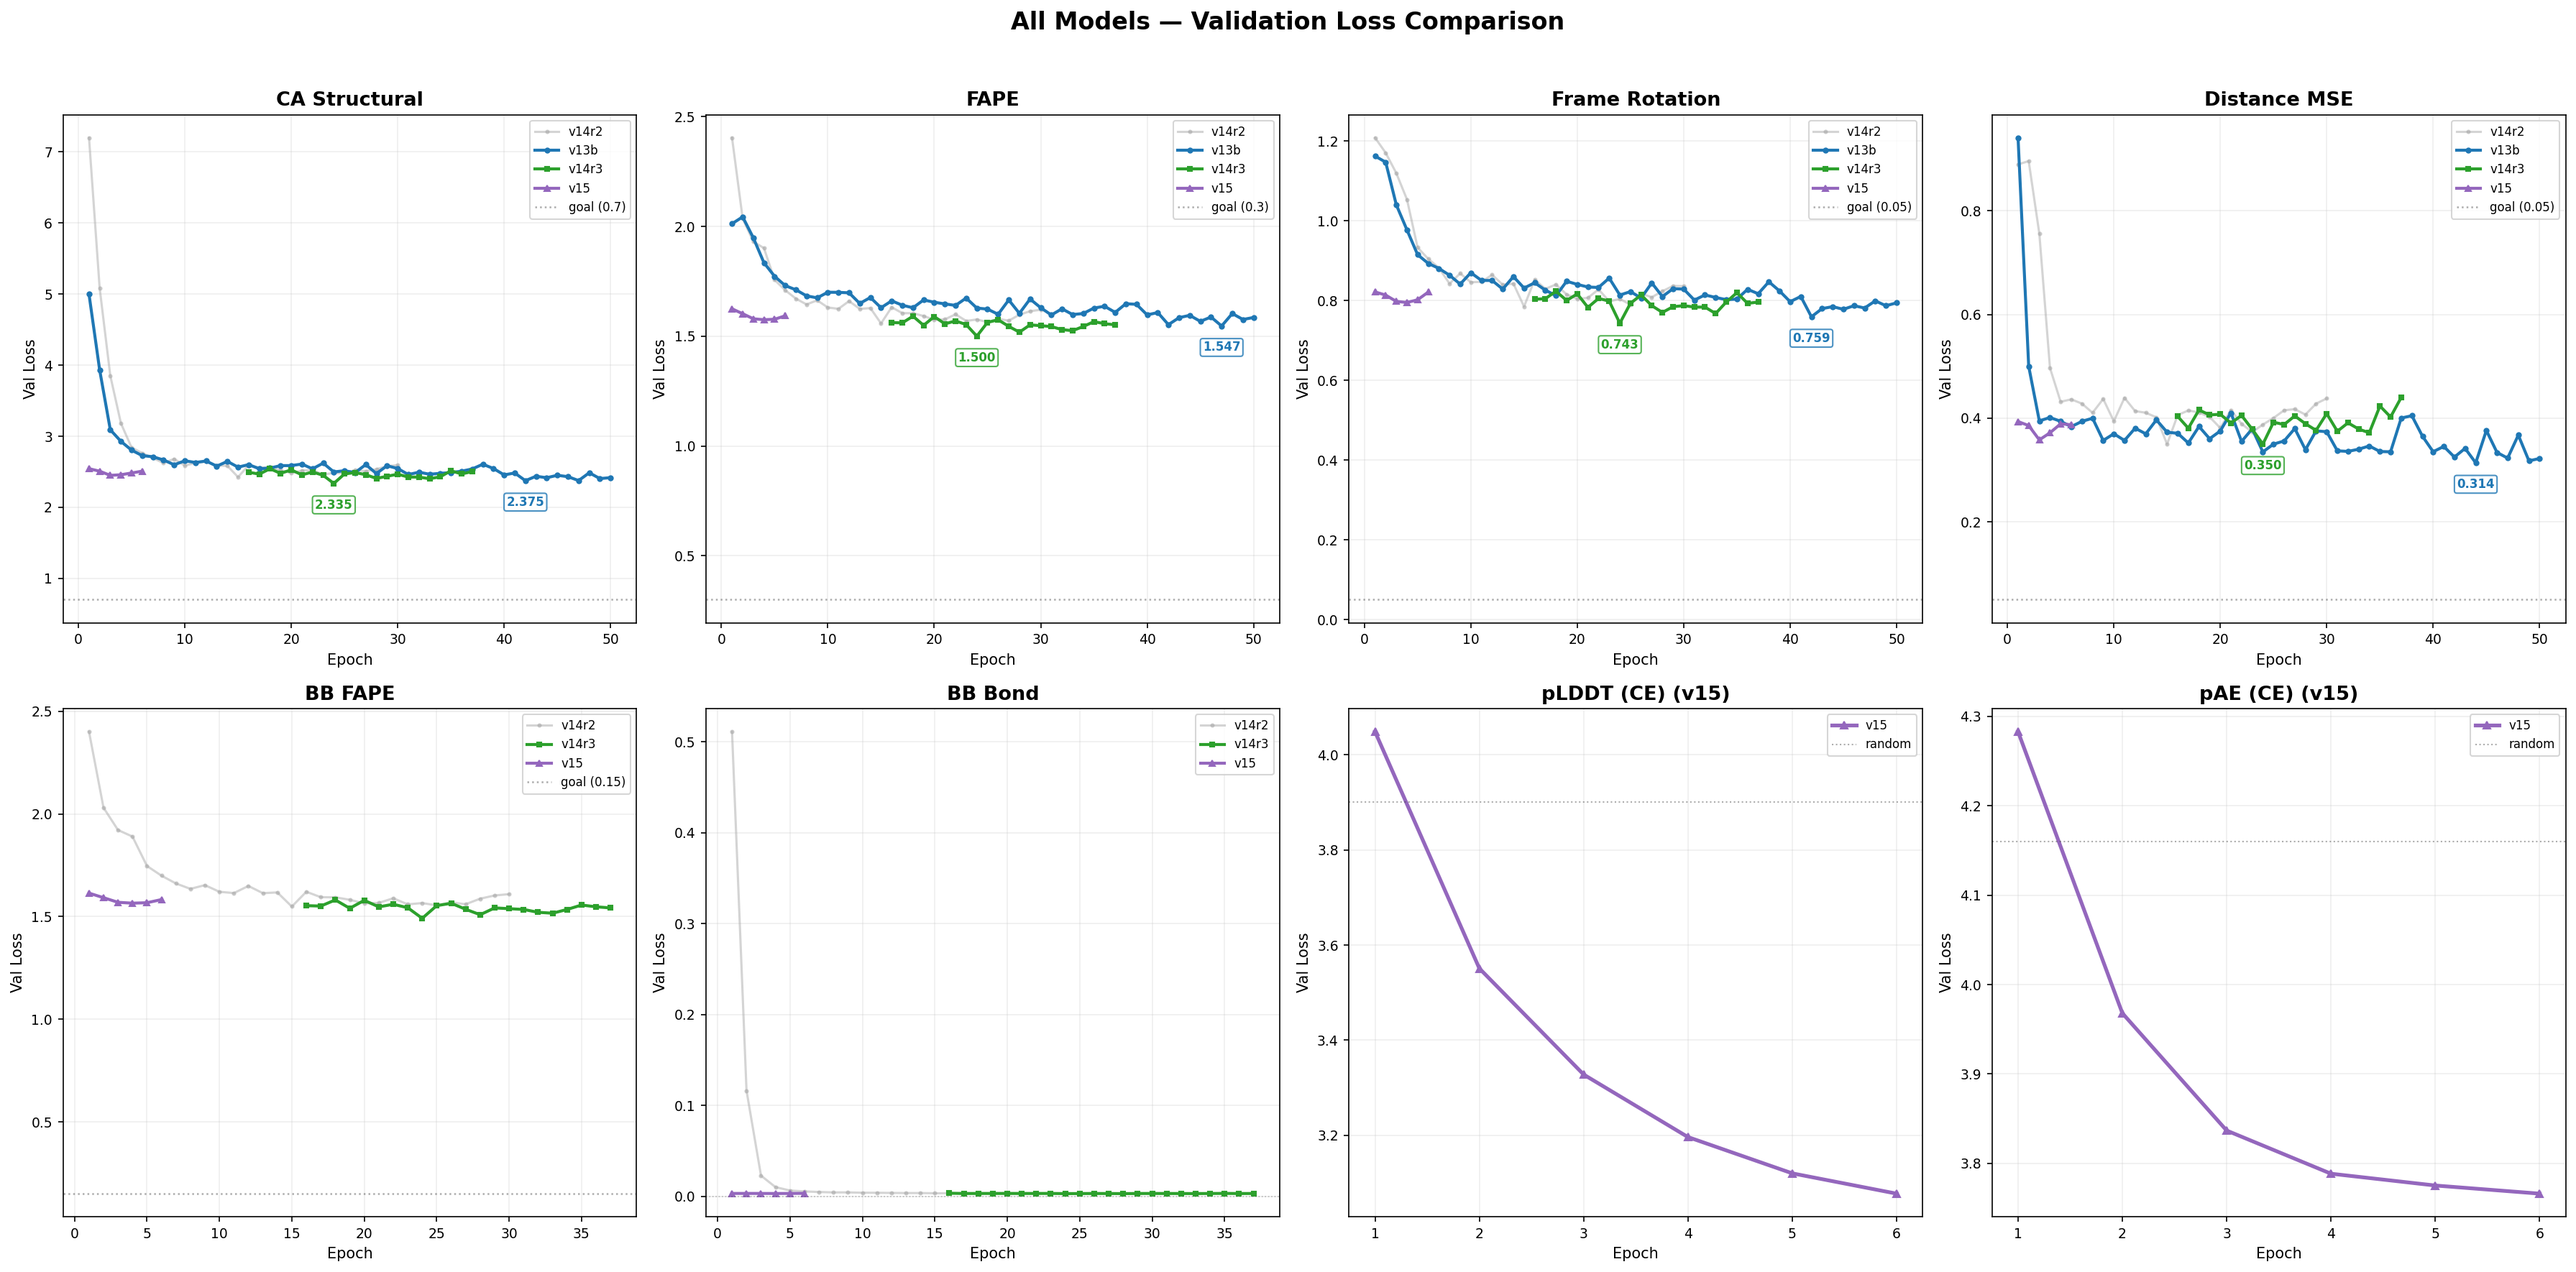
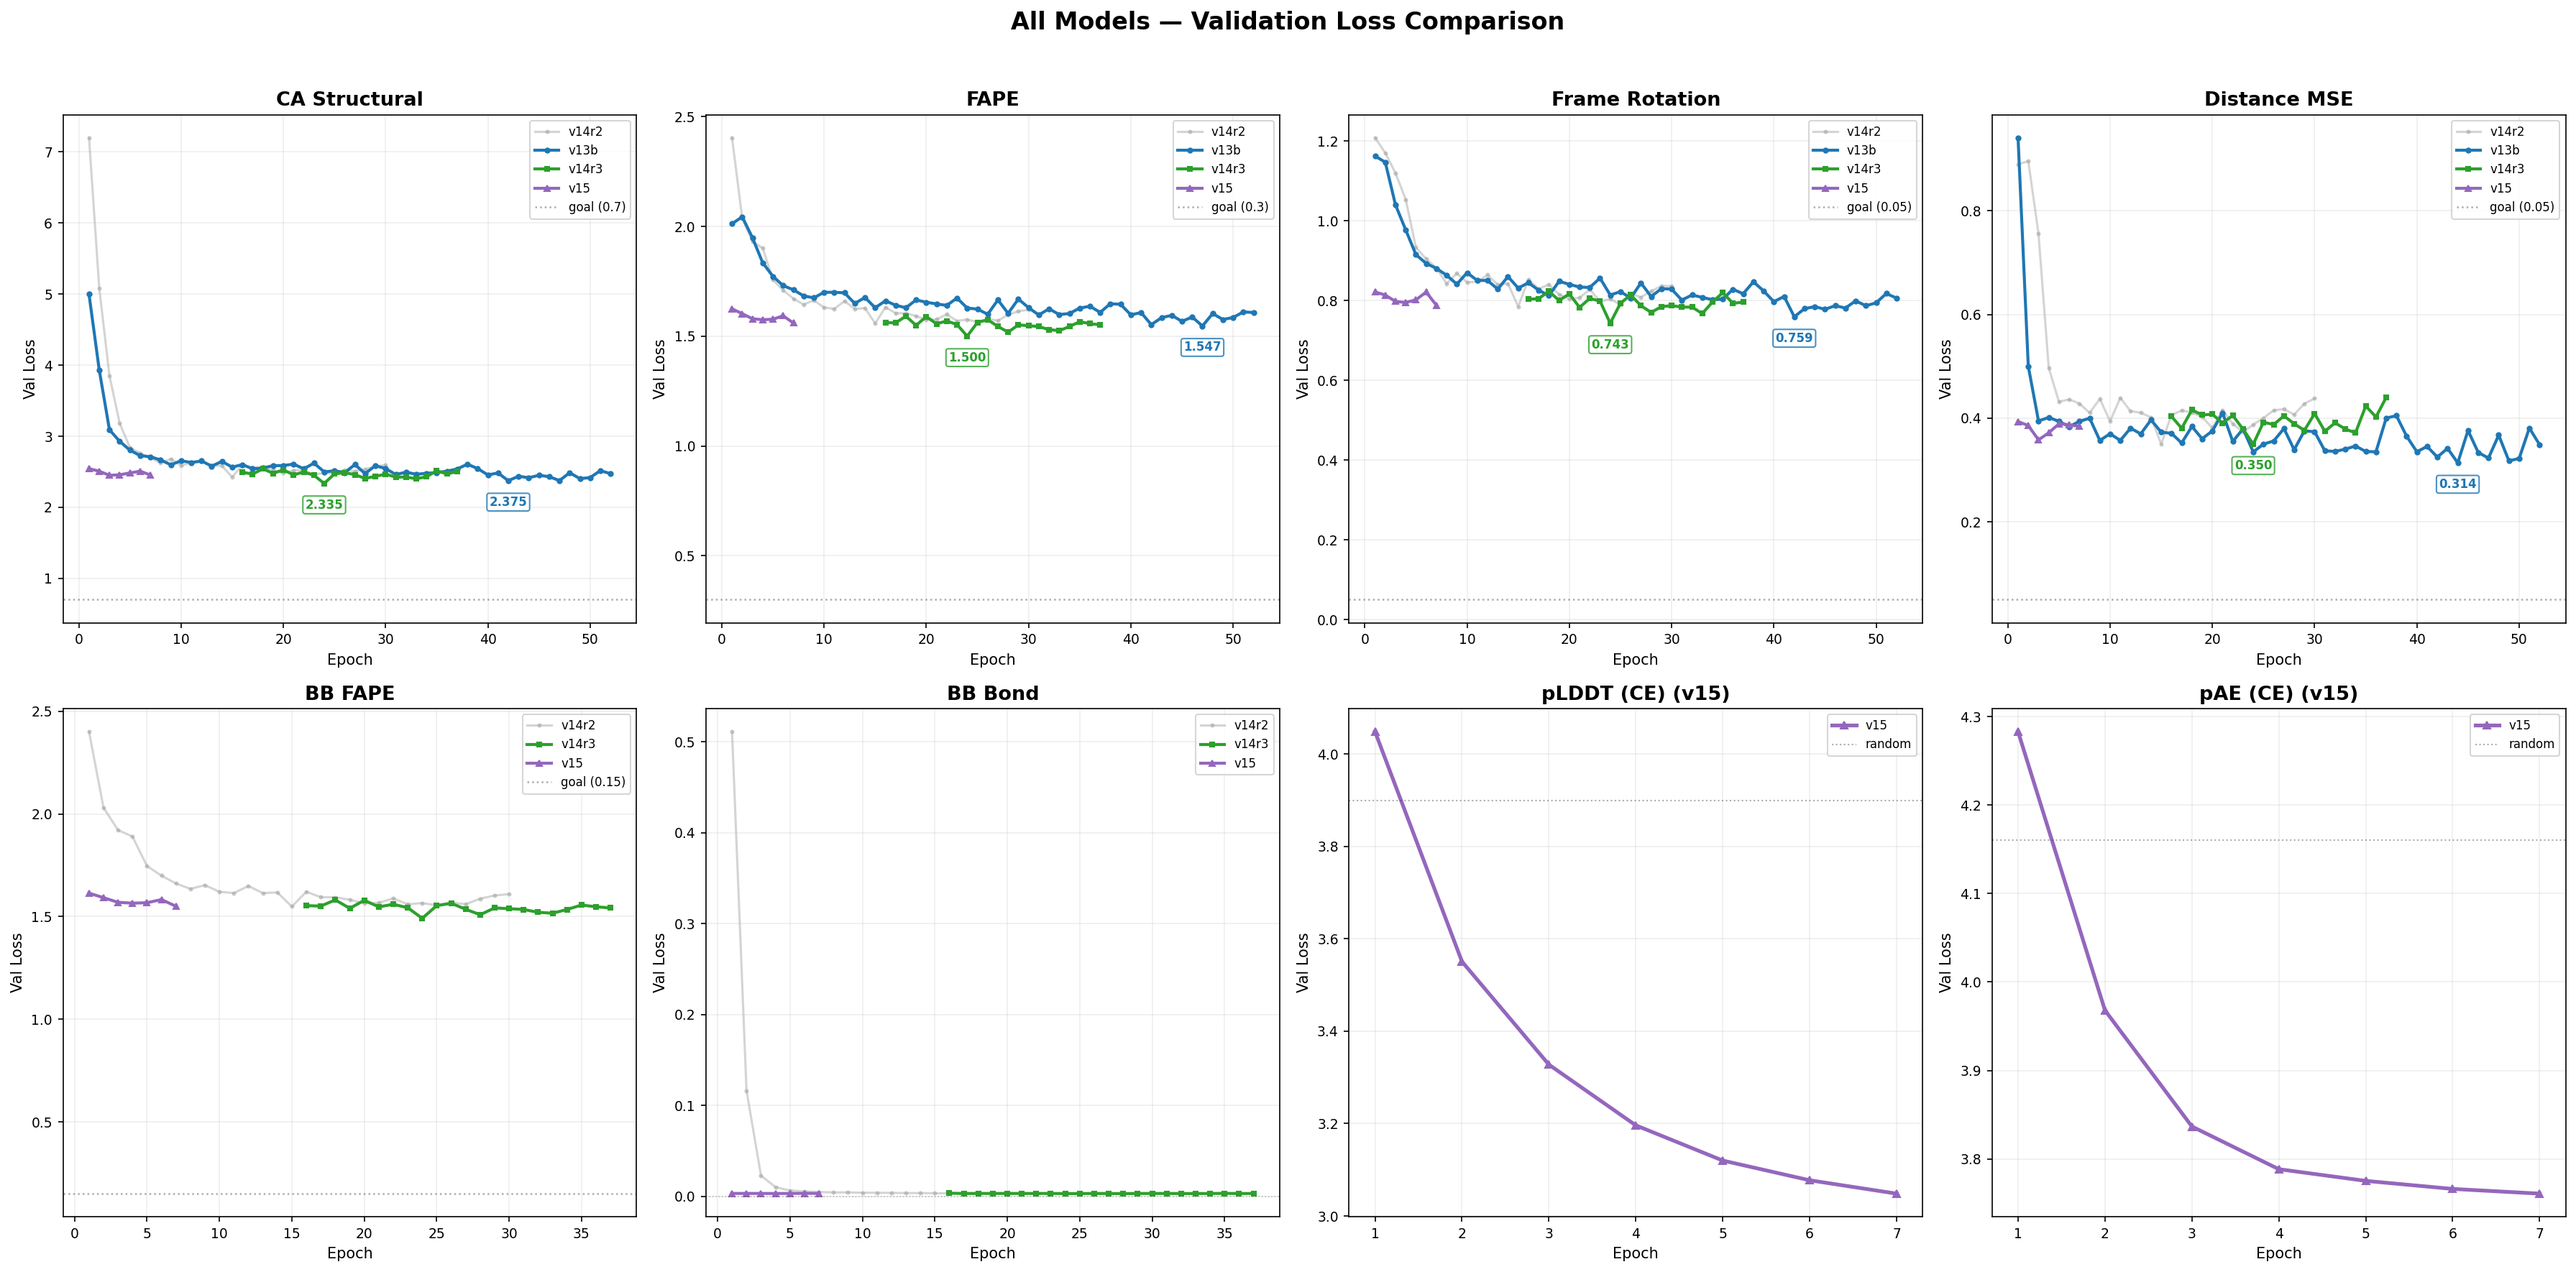
Update: v15 E7 (pat 4/15, pLDDT 3.05, FAPE 1.560)
v15 at full LR now. FAPE/frot approaching v14r3 levels. pLDDT
steadily dropping (4.05→3.05 in 7 epochs). Structural 2.449 best.

diff --git a/minifold.html b/minifold.html
@@ -194,7 +194,7 @@
       Full architecture history, training tables, loss functions, and analysis for the protein backbone diffusion model.
     </p>
     <p id="last-updated" style="color: var(--text-secondary); font-size: 13px; margin-bottom: 16px; font-style: italic;">
-      Last updated: Mar 14, 2026 at 6:00 PM PST
+      Last updated: Mar 14, 2026 at 6:15 PM PST
     </p>
 
     <div class="mf-tabs">
@@ -264,7 +264,7 @@
         </div>
         <div style="font-size: 13px; color: var(--text-secondary); line-height: 1.7;">
           Best structural: <strong>2.449</strong> (E3)<br>
-          Current: E4 &middot; pat 1/15<br>
+          Current: E7 &middot; pat 4/15<br>
           pLDDT + pAE confidence heads &middot; 15 terms
         </div>
       </div>
@@ -411,6 +411,7 @@
           <tr><td>4</td><td>4.940</td><td>2.449</td><td>1.575</td><td>0.795</td><td>0.384</td><td>1.566</td><td>3.196</td><td>3.788</td><td>&mdash;</td><td><span class="tag tag-stale">pat 1/15</span></td></tr>
           <tr><td>5</td><td>5.469</td><td>2.449</td><td>1.577</td><td>0.802</td><td>0.382</td><td>1.568</td><td>3.120</td><td>3.775</td><td>0.095</td><td><span class="tag tag-stale">pat 2/15</span></td></tr>
           <tr><td>6</td><td>5.652</td><td>2.449</td><td>1.593</td><td>0.821</td><td>0.392</td><td>1.583</td><td>3.077</td><td>3.766</td><td>&mdash;</td><td><span class="tag tag-stale">pat 3/15</span></td></tr>
+          <tr><td>7</td><td>5.808</td><td>2.449</td><td>1.560</td><td>0.788</td><td>0.393</td><td>1.551</td><td>3.048</td><td>3.761</td><td>&mdash;</td><td><span class="tag tag-stale">pat 4/15</span></td></tr>
         </tbody>
       </table>
     </div>
